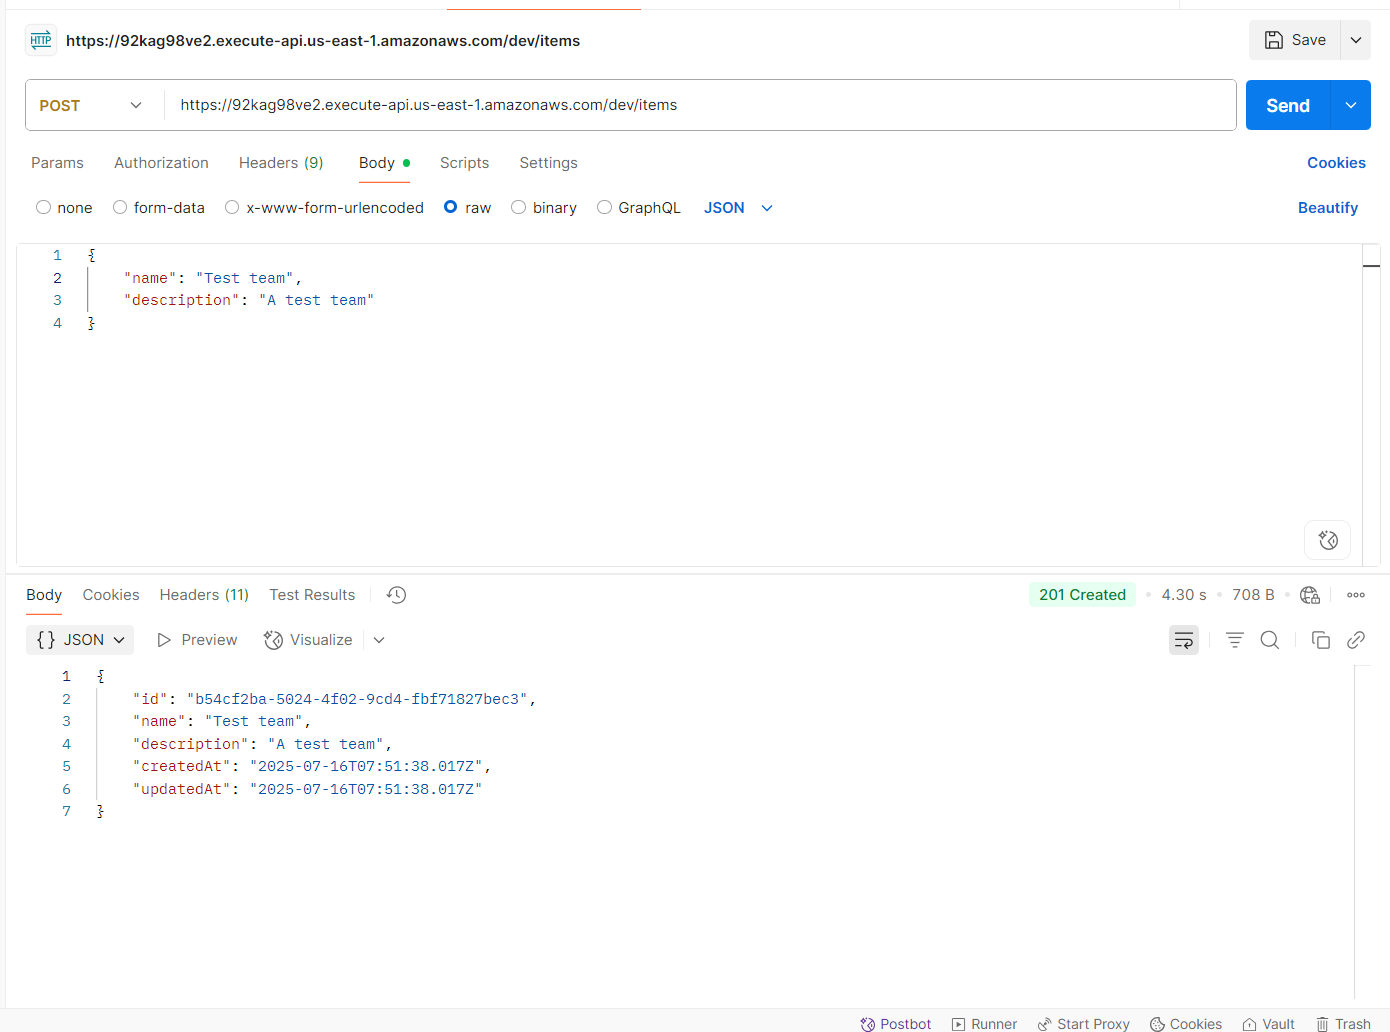
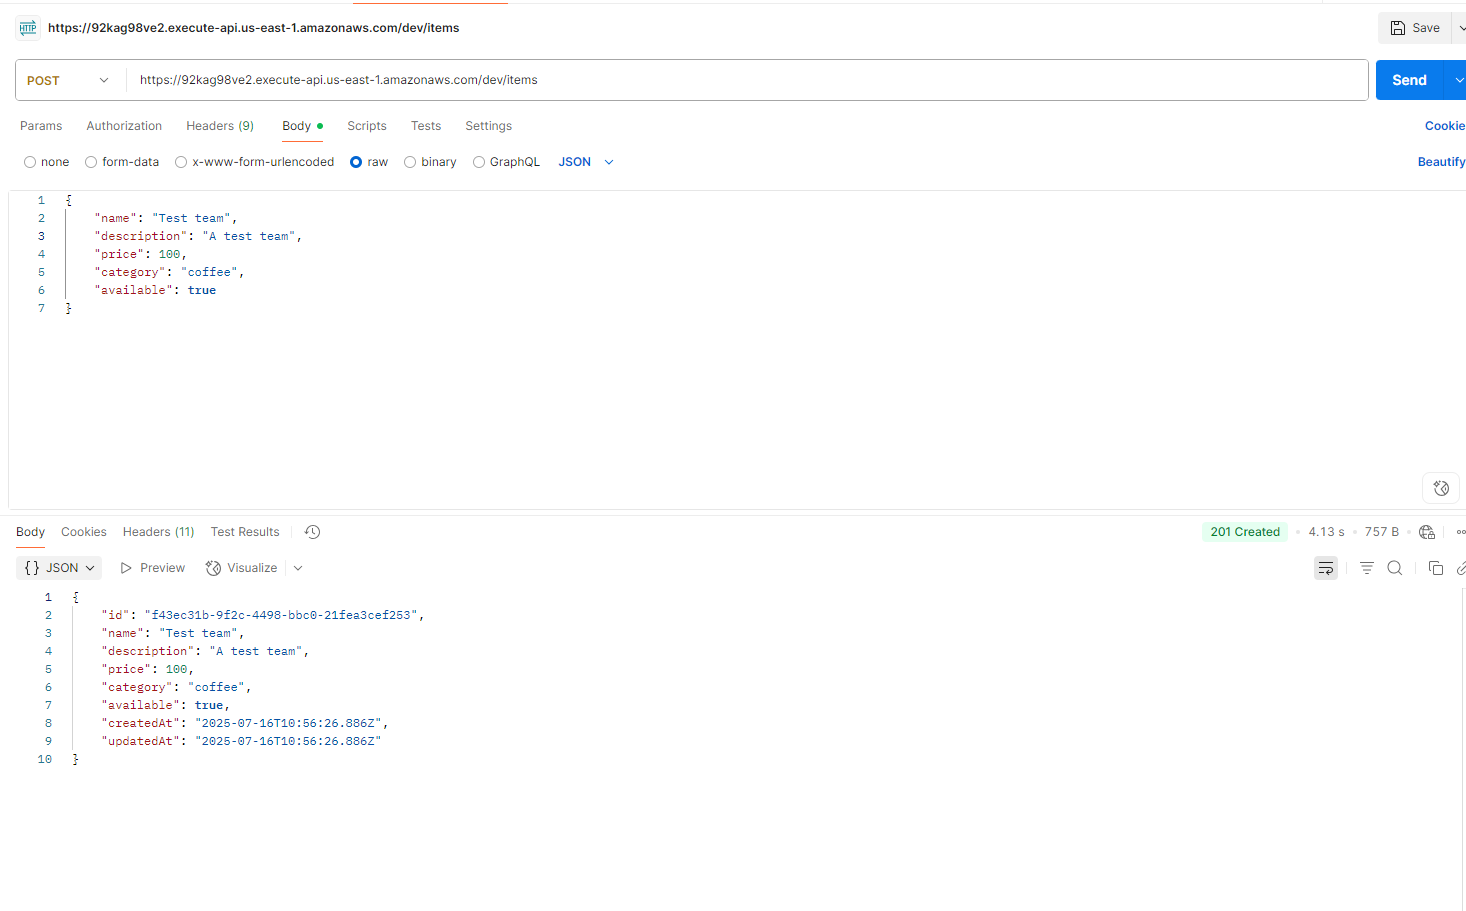
update: readme

diff --git a/README.md b/README.md
@@ -1,13 +1,18 @@
-# Serverless CRUD REST API (AWS)
+# Coffee Shop Menu API (Serverless CRUD, AWS)
 
-This project is a Serverless Framework-based REST API using AWS API Gateway, Lambda (Node.js/TypeScript), and DynamoDB. It supports full CRUD operations and is ready for CI/CD deployment.
+This project is a Serverless Framework-based REST API for managing a coffee shop menu, using AWS API Gateway, Lambda (Node.js/TypeScript), and DynamoDB. It supports full CRUD operations for menu items and is ready for CI/CD deployment.
+
+## Business Case
+This API powers a coffee shop’s menu management. You can create, read, update, and delete menu items (e.g., drinks, pastries) with fields like name, price, category, and availability.
 
 ## Features
 - Node.js/TypeScript Lambdas
 - AWS API Gateway REST API
 - DynamoDB integration (no direct service proxy)
-- Serverless Framework IaC
+- Serverless Framework IaC (modular YAML)
 - GitHub Actions CI/CD (multi-stage: dev, prod)
+- Helper scripts for deployment and testing
+- Unit tests for all handlers
 
 ## Folder Structure
 ```
@@ -16,10 +21,27 @@ serverless/
     handlers/   # Lambda function handlers
     models/     # TypeScript interfaces/models
     services/   # Business logic, DynamoDB access
-  README.md
+  tests/        # Unit tests
+  scripts/      # Helper scripts (deploy, test)
   serverless.yml
+  serverless/functions.yml
+  serverless/resources.yml
+  README.md
 ```
 
+## MenuItem Model
+```ts
+export interface MenuItem {
+  id: string;
+  name: string;
+  description?: string;
+  price: number;
+  category: string; // e.g., "coffee", "tea", "pastry"
+  available: boolean;
+  createdAt: string;
+  updatedAt?: string;
+}
+```
 
 ## Getting Started
 
@@ -48,22 +70,44 @@ Deploy to prod stage:
 ```sh
 npm run deploy:prod
 ```
+Or use the helper script:
+```sh
+./scripts/deploy.sh [stage]
+```
 
-### API Endpoints
-| Method | Path         | Description         |
-|--------|--------------|---------------------|
-| POST   | /items       | Create an item      |
-| GET    | /items       | List all items      |
-| GET    | /items/{id}  | Get item by ID      |
-| PUT    | /items/{id}  | Update item by ID   |
-| DELETE | /items/{id}  | Delete item by ID   |
+### Run Tests
+```sh
+npm test
+# or
+./scripts/test.sh
+```
 
-#### Example Request (Create Item)
+## API Endpoints
+| Method | Path         | Description                |
+|--------|--------------|----------------------------|
+| POST   | /items       | Create a menu item         |
+| GET    | /items       | List all menu items        |
+| GET    | /items/{id}  | Get menu item by ID        |
+| PUT    | /items/{id}  | Update menu item by ID     |
+| DELETE | /items/{id}  | Delete menu item by ID     |
+
+#### Example Request (Create Menu Item)
 ```sh
 curl -X POST https://<api-id>.execute-api.<region>.amazonaws.com/dev/items \
   -H "Content-Type: application/json" \
-  -d '{"name": "Test Item", "description": "A test item"}'
+  -d '{"name": "Latte", "price": 4.5, "category": "coffee", "available": true}'
 ```
+
+## Infrastructure as Code (IaC)
+- All AWS resources and functions are defined in modular YAML files:
+  - `serverless.yml` (main config)
+  - `serverless/functions.yml` (Lambdas)
+  - `serverless/resources.yml` (DynamoDB)
+- Lambda packaging is optimized (excludes dev dependencies, tests, docs, etc.)
+
+## Helper Scripts
+- `scripts/deploy.sh [stage]` — Build and deploy to a specified stage (default: dev)
+- `scripts/test.sh` — Run all tests
 
 ## CI/CD with GitHub Actions
 
@@ -75,6 +119,7 @@ This project uses GitHub Actions to deploy automatically:
 Add these secrets to your GitHub repository:
 - `AWS_ACCESS_KEY_ID`
 - `AWS_SECRET_ACCESS_KEY`
+- `SERVERLESS_ACCESS_KEY`
 
 ## Screenshots
 
